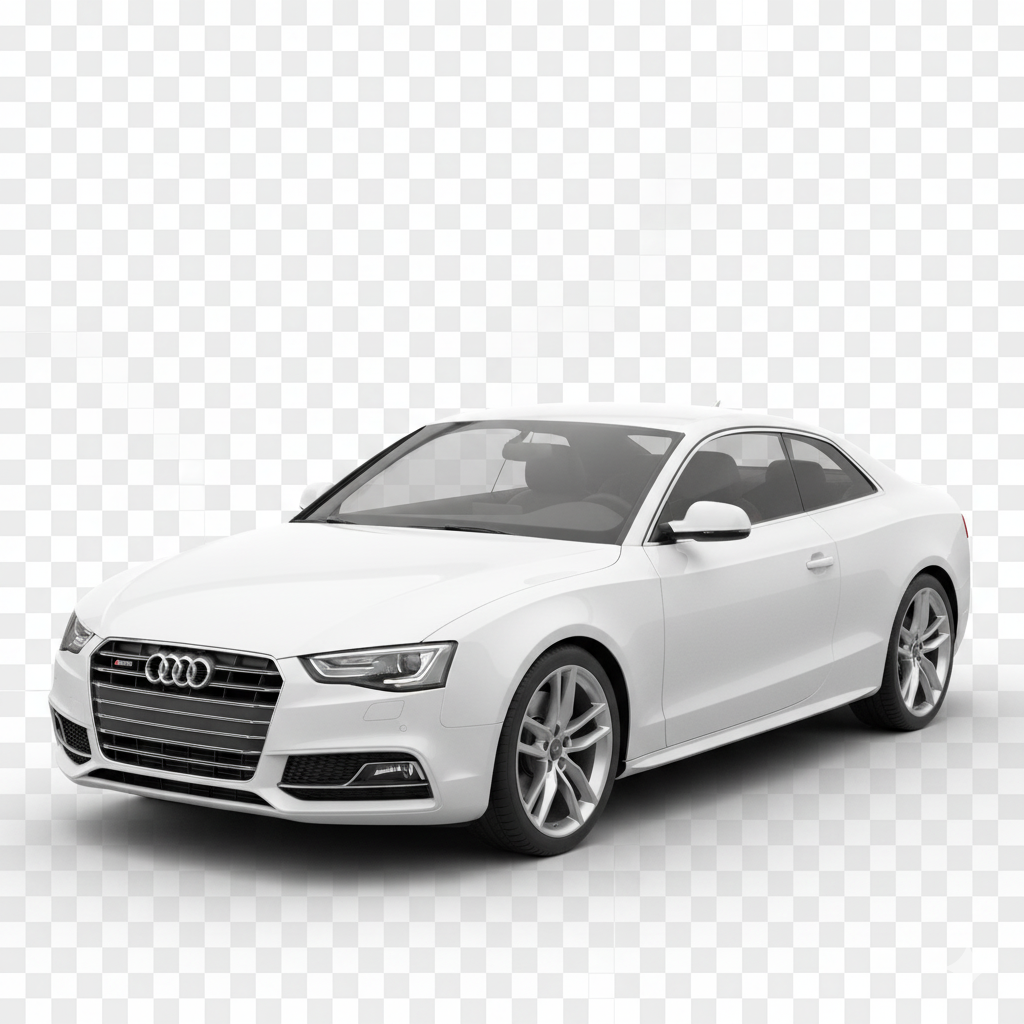
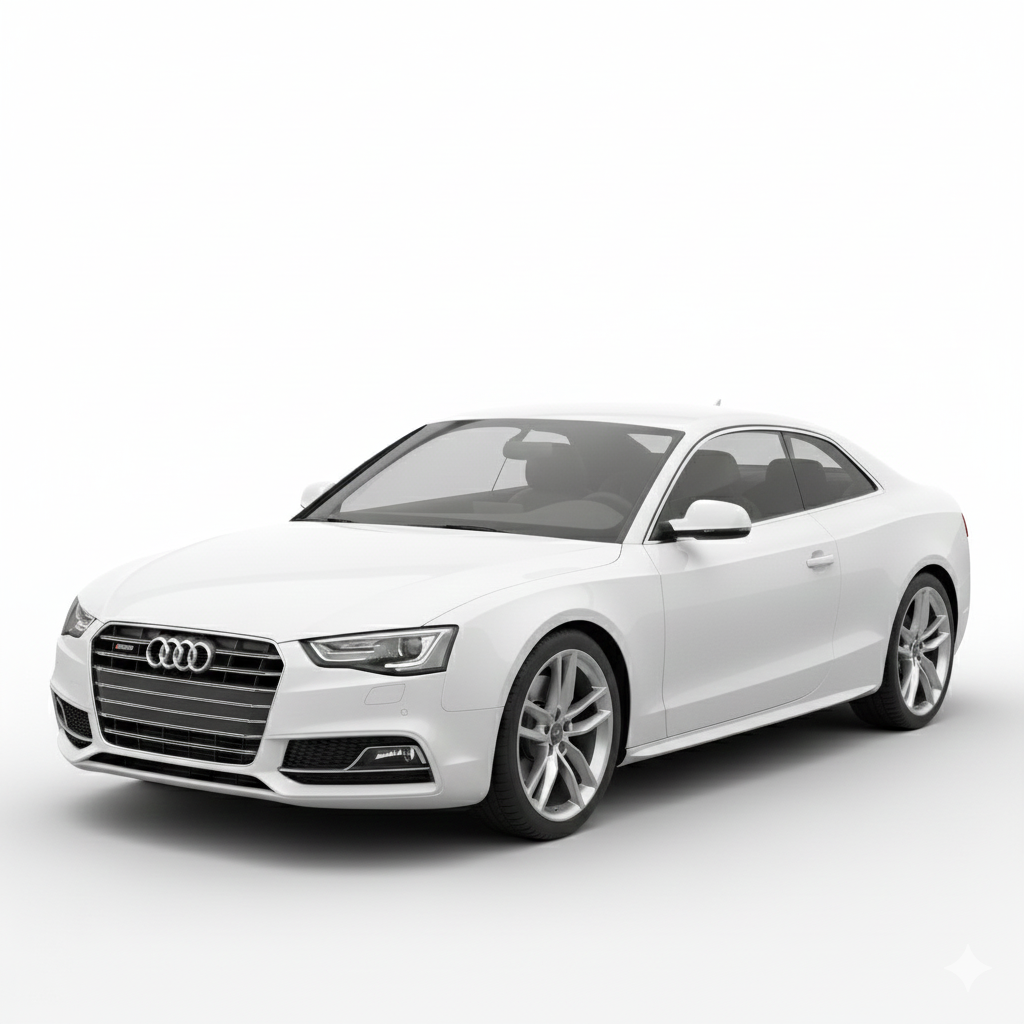
Update image paths for Audi and Skoda brands, fix modal scrolling for 3-row visibility

diff --git a/Frontend/src/components/BrandSelectorModal.tsx b/Frontend/src/components/BrandSelectorModal.tsx
@@ -245,13 +245,9 @@ const BrandSelectorModal = ({
     <div
       className={cn(
         layout === "sidebar"
-          ? "grid grid-cols-3 gap-3 max-h-[580px] overflow-y-auto pr-1.5"
-          : "grid grid-cols-3 gap-5 max-h-[580px] overflow-y-auto"
+          ? "grid grid-cols-3 gap-3 pr-1.5 pb-4"
+          : "grid grid-cols-3 gap-5 pb-6"
       )}
-      style={{
-        scrollbarWidth: 'thin',
-        scrollbarColor: '#cbd5e1 #f8fafc'
-      }}
     >
       {filteredModelList.map((model) => {
         const isSelected = selectedModelId === model.id;
@@ -262,14 +258,8 @@ const BrandSelectorModal = ({
         // Special handling for Skoda, Land Rover, and Audi - use correct folder paths
         let imagePath;
         if (brandName === 'skoda') {
-          // For Skoda, all images use "skoda_modelname.png" format with underscores
-          let skodaFileName = `skoda_${modelName.replace(/_/g, '')}`;
-          // Special cases for different filename formats
-          if (modelName === 'yeti') {
-            skodaFileName = 'skoda_yati';
-          } else if (modelName === 'superb') {
-            skodaFileName = 'skodas_uperb'; // Note: typo in actual filename
-          }
+          // Skoda images are in "skoda" folder with proper capitalization
+          let skodaFileName = model.name; // Use original name with proper capitalization
           imagePath = `/images/Car_images/skoda/${skodaFileName}.png`;
         } else if (brandName === 'land_rover') {
           // Land Rover images are in "Land rover" folder
@@ -294,20 +284,70 @@ const BrandSelectorModal = ({
           }
           imagePath = `/images/Car_images/Land rover/${landRoverFileName}.png`;
         } else if (brandName === 'audi') {
-          // Audi images are in "Audi_car" folder with capital A
-          let audiFileName = modelName;
-          // Special case: A8 L uses space and uppercase in filename
-          if (modelName === 'a8_l' || model.name === 'A8 L') {
-            audiFileName = 'A8 L';
+          // Audi images are in "Audi_car" folder with mixed case naming
+          let audiFileName = model.name;
+          
+          // Create a clean version of the model name for matching
+          const cleanModelName = modelName.replace(/[_\s-]/g, '').toLowerCase();
+          
+          // Map to exact filenames based on what exists in the folder
+          switch(cleanModelName) {
+            case 'a3':
+              audiFileName = 'A3';
+              break;
+            case 'a4':
+              audiFileName = 'A4';
+              break;
+            case 'a5':
+              audiFileName = 'A5';
+              break;
+            case 'a6':
+              audiFileName = 'A6';
+              break;
+            case 'a7':
+              audiFileName = 'A7';
+              break;
+            case 'a8':
+              audiFileName = 'A8';
+              break;
+            case 'a8l':
+              audiFileName = 'A8 L';
+              break;
+            case 'etron':
+              audiFileName = 'e-tron';
+              break;
+            case 'q2':
+              audiFileName = 'Q2';
+              break;
+            case 'q3':
+              audiFileName = 'Q3';
+              break;
+            case 'q5':
+              audiFileName = 'Q5';
+              break;
+            case 'q7':
+              audiFileName = 'Q7';
+              break;
+            case 'q8':
+              audiFileName = 'Q8';
+              break;
+            case 'r8':
+              audiFileName = 'R8';
+              break;
+            case 'rs3':
+              audiFileName = 'RS3';
+              break;
+            case 'rs5':
+              audiFileName = 'RS5';
+              break;
+            case 's4':
+              audiFileName = 'S4';
+              break;
+            case 'tt':
+              audiFileName = 'TT';
+              break;
           }
-          // Special case: Q7 uses uppercase in filename
-          if (modelName === 'q7') {
-            audiFileName = 'Q7';
-          }
-          // Special case: Q5 uses uppercase in filename
-          if (modelName === 'q5') {
-            audiFileName = 'Q5';
-          }
+          
           imagePath = `/images/Car_images/Audi_car/${audiFileName}.png`;
         } else if (brandName === 'volkswagen') {
           // Volkswagen images are in "Volkswagen" folder with capital V
@@ -565,7 +605,7 @@ const BrandSelectorModal = ({
     );
     const gridWrapperClasses = cn(
       paddingX,
-      layout === "sidebar" ? "py-6" : "pb-6"
+      layout === "sidebar" ? "py-6 overflow-y-auto max-h-[600px]" : "pb-6 pt-4 overflow-y-auto max-h-[650px]"
     );
 
     return (
@@ -645,7 +685,13 @@ const BrandSelectorModal = ({
           </div>
         )}
 
-        <div className={gridWrapperClasses}>
+        <div 
+          className={gridWrapperClasses}
+          style={{
+            scrollbarWidth: 'thin',
+            scrollbarColor: '#cbd5e1 #f8fafc'
+          }}
+        >
           {stage === "brand" && renderBrandGrid(layout)}
           {stage === "model" && renderModelGrid(layout)}
           {stage === "fuel" && renderFuelOptions(layout)}
@@ -738,7 +784,7 @@ const BrandSelectorModal = ({
       </DialogTrigger>
 
       <DialogContent 
-        className="w-[400px] max-w-[400px] p-0 gap-0"
+        className="w-[400px] max-w-[400px] max-h-[90vh] p-0 gap-0 overflow-hidden flex flex-col"
         style={{
           background: 'linear-gradient(to bottom, #FFFFFF, #FAFAFA)'
         }}

diff --git a/fix_backgrounds.py b/fix_backgrounds.py
@@ -1,0 +1,40 @@
+#!/usr/bin/env python3
+"""
+Script to replace image backgrounds with pure white
+"""
+from PIL import Image
+import os
+
+def add_white_background(image_path):
+    """Add pure white background to image"""
+    # Open the image
+    img = Image.open(image_path).convert('RGBA')
+    
+    # Create a white background
+    white_bg = Image.new('RGBA', img.size, (255, 255, 255, 255))
+    
+    # Composite the image on white background
+    result = Image.alpha_composite(white_bg, img)
+    
+    # Convert to RGB (removes alpha channel)
+    result_rgb = result.convert('RGB')
+    
+    # Save the image
+    result_rgb.save(image_path.replace('.png', '_fixed.png'))
+    print(f"Fixed: {image_path}")
+
+# Images to fix
+images = [
+    "/Users/bhabanishankarswain/Automex/Frontend/public/images/Car_images/skoda/Kylaq.png",
+    "/Users/bhabanishankarswain/Automex/Frontend/public/images/Car_images/skoda/Superb.png",
+    "/Users/bhabanishankarswain/Automex/Frontend/public/images/Car_images/skoda/Yeti.png"
+]
+
+for img_path in images:
+    if os.path.exists(img_path):
+        add_white_background(img_path)
+    else:
+        print(f"File not found: {img_path}")
+
+print("\nFixed images created with '_fixed.png' suffix")
+print("Review them and rename to replace originals if satisfied")
